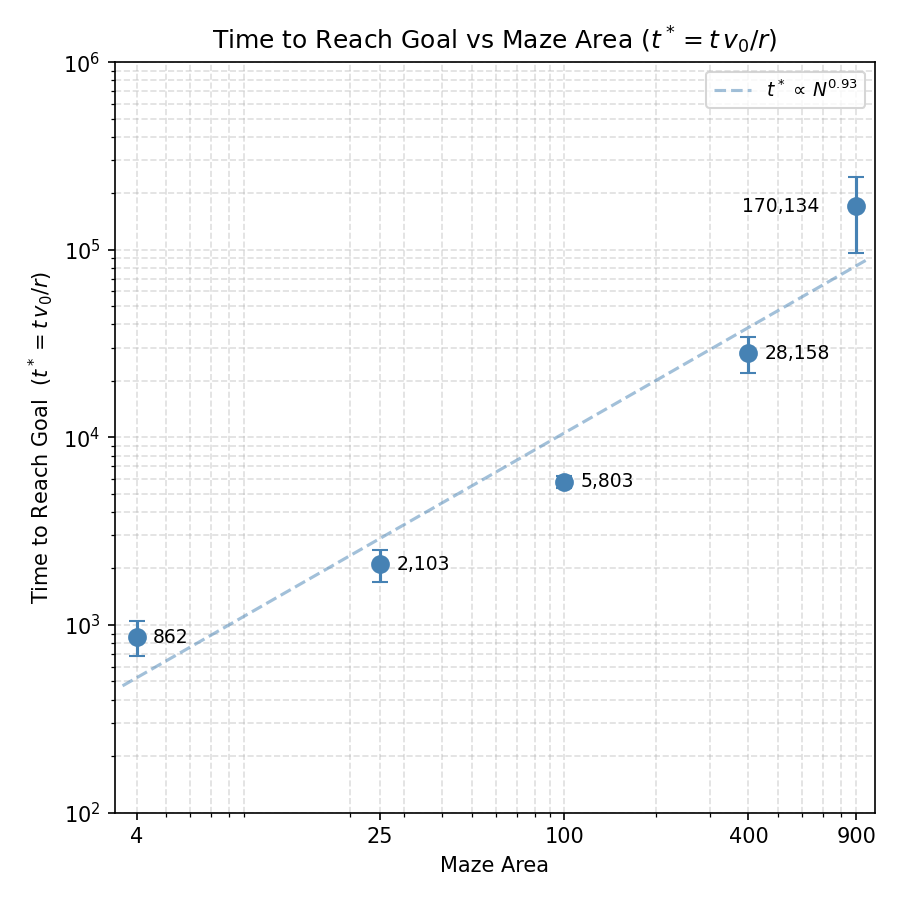
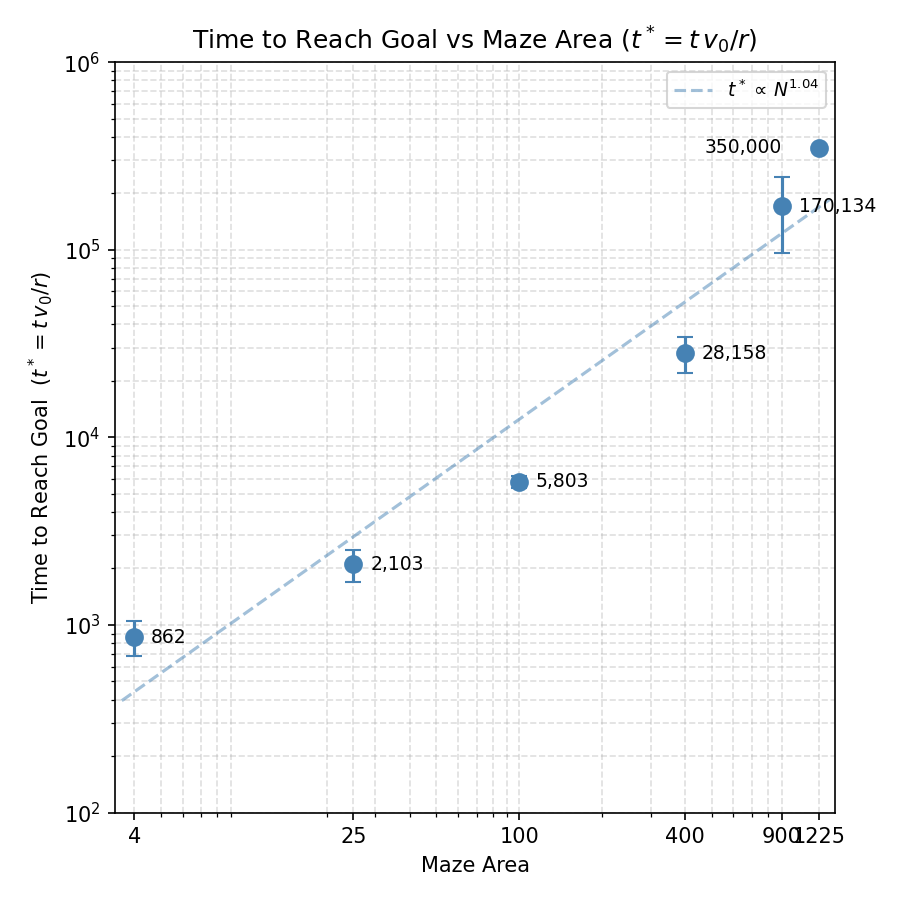
snellius extra runs

diff --git a/figures/fig6/f/plot_wallprune.py b/figures/fig6/f/plot_wallprune.py
@@ -1,15 +1,32 @@
+"""Wall-pruning figure (G=20).
+
+Usage (from anywhere):
+    python plot_wallprune.py [extra_results.txt ...]
+
+Data sources (merged, de-duplicated by the `output` name):
+  * wallprune_results_G20.csv   - original single-trial results (run 1)
+  * wallprune_results.txt       - raw file appended by the Slurm jobs
+                                  (copy it from Snellius next to this script,
+                                  or pass its path as an argument)
+Any `RESULT_LINE: key=value ...` line is parsed, so the raw Slurm results
+file can be used as-is. Lines without a `_runN` suffix count as run 1.
+"""
+import csv
+import os
+import re
+import sys
+
 import matplotlib.pyplot as plt
 import matplotlib.ticker as ticker
 import numpy as np
-import csv
-import os
 
 # ── Physical constants ────────────────────────────────────────────────────────
 DT = 0.01
 V0 = 5.0
 R  = 1.0
-BOX_SIZE = 1200.0   # 20×20 maze: 60 * G sim-units
-CELL_SIZE = BOX_SIZE / 20
+G  = 20
+BOX_SIZE = 60.0 * G   # 20×20 maze: 60 * G sim-units
+CELL_SIZE = BOX_SIZE / G
 PAYLOAD_START = np.array([CELL_SIZE / 2, CELL_SIZE / 2])
 GOAL          = np.array([BOX_SIZE - CELL_SIZE / 2, BOX_SIZE - CELL_SIZE / 2])
 STRAIGHT_DIST = np.linalg.norm(GOAL - PAYLOAD_START)  # 1140√2 ≈ 1612
@@ -17,38 +34,64 @@ T_STAR_STRAIGHT = STRAIGHT_DIST / R  # straight-line crossing time in t* units
 
 # ── Load data ─────────────────────────────────────────────────────────────────
 _HERE = os.path.dirname(os.path.abspath(__file__))
-DATA_FILE = os.path.join(_HERE, 'wallprune_results_G20.csv')
+CSV_FILE = os.path.join(_HERE, 'wallprune_results_G20.csv')
+RAW_FILES = [os.path.join(_HERE, 'wallprune_results.txt')] + sys.argv[1:]
 
-walls_remaining = []
-prune_steps = []
-final_steps = []
+records = {}  # output name -> (prune_step, final_step)
 
-with open(DATA_FILE, newline='') as f:
-    reader = csv.DictReader(f)
-    for row in reader:
-        if row['goal_reached'] == 'True':
-            walls_remaining.append(int(row['walls_remaining']))
-            prune_steps.append(int(row['prune_step']))
-            final_steps.append(int(row['final_step']))
 
-M = 361  # total interior walls for G=20
-prune_steps = np.array(prune_steps)
-t_star = np.array(final_steps, dtype=float) * DT * V0 / R
+def add(output, prune_step, final_step, goal_reached):
+    if goal_reached:
+        records[output] = (int(prune_step), int(final_step))
 
-# Sort by prune_step ascending (full maze → open)
-order = np.argsort(prune_steps)
-px = prune_steps[order]
-ty = t_star[order]
+
+if os.path.exists(CSV_FILE):
+    with open(CSV_FILE, newline='') as f:
+        for row in csv.DictReader(f):
+            add(row['output'], row['prune_step'], row['final_step'],
+                row['goal_reached'] == 'True')
+
+for path in RAW_FILES:
+    if not os.path.exists(path):
+        continue
+    with open(path) as f:
+        for line in f:
+            if not line.startswith('RESULT_LINE:'):
+                continue
+            kv = dict(re.findall(r'(\w+)=(\S+)', line))
+            add(kv['output'], kv['prune_step'], kv['final_step'],
+                kv['goal_reached'] == 'True')
+
+if not records:
+    sys.exit("No results found - put wallprune_results.txt next to this script "
+             "or pass its path as an argument.")
+
+steps = np.array([v[0] for v in records.values()])
+t_all = np.array([v[1] for v in records.values()], dtype=float) * DT * V0 / R
+
+unique_steps = np.unique(steps)
+means = np.array([t_all[steps == s].mean() for s in unique_steps])
+stds  = np.array([t_all[steps == s].std(ddof=1) if (steps == s).sum() > 1 else 0.0
+                  for s in unique_steps])
+counts = np.array([(steps == s).sum() for s in unique_steps])
+
+print("prune_step  n   mean t*   std")
+for s, n, m, sd in zip(unique_steps, counts, means, stds):
+    print(f"{s:>10}  {n}  {m:>9.0f}  {sd:>8.0f}")
 
 COLOR = '#7B68EE'
 
 # ── Plot ──────────────────────────────────────────────────────────────────────
 fig, ax = plt.subplots(figsize=(6, 6))
 
-px_plot = px + 1  # shift so 0 → 1 (log-safe); tick labels show original values
-ax.scatter(px_plot, ty, color=COLOR, s=64, zorder=3)
+px_all  = steps + 1           # shift so 0 → 1 (log-safe); tick labels show original values
+px_mean = unique_steps + 1
 
-for x, y in zip(px_plot, ty):
+ax.scatter(px_all, t_all, color=COLOR, s=18, alpha=0.35, zorder=2, label='individual trials')
+ax.errorbar(px_mean, means, yerr=stds, fmt='o', color=COLOR, markersize=8,
+            capsize=4, zorder=3, label='mean ± std')
+
+for x, y in zip(px_mean, means):
     ax.annotate(f'{y:,.0f}', (x, y), textcoords='offset points',
                 xytext=(6, 4), va='bottom', fontsize=8)
 
@@ -58,16 +101,18 @@ ax.legend(fontsize=9)
 
 ax.set_yscale('log')
 ax.set_xscale('log')
-ax.set_xlim(0.85, (px.max() + 1) * 1.5)
+ax.set_xlim(0.85, (unique_steps.max() + 1) * 1.5)
 ax.set_ylim(1000, 100000)
-ax.set_xticks(px_plot)
-ax.set_xticklabels([str(v) for v in px], rotation=45, ha='right')
+ax.set_xticks(px_mean)
+ax.set_xticklabels([str(v) for v in unique_steps], rotation=45, ha='right')
 ax.xaxis.set_minor_formatter(ticker.NullFormatter())
 
 ax.set_xlabel('Interior Walls Pruned (cumulative)')
 ax.set_ylabel(r'Time to Reach Goal  ($t^* = t\, v_0 / r$)')
+n_min, n_max = counts.min(), counts.max()
+trials = f'{n_max}' if n_min == n_max else f'{n_min}-{n_max}'
 ax.set_title('Navigation Time vs Wall Density\n'
-             r'($t^* = t\,v_0/r$,  20×20 maze, 1 trial each)')
+             rf'($t^* = t\,v_0/r$,  20×20 maze, {trials} trials per condition)')
 
 ax.yaxis.set_minor_formatter(ticker.NullFormatter())
 ax.grid(True, which='both', linestyle='--', alpha=0.4)
@@ -75,5 +120,5 @@ plt.tight_layout()
 
 outfile = os.path.join(_HERE, 'wallprune_G20.png')
 plt.savefig(outfile, dpi=150)
-plt.show()
 print(f"Saved {outfile}")
+plt.show()

diff --git a/figures/fig6/d/plot_maze_scaling.py b/figures/fig6/d/plot_maze_scaling.py
@@ -16,7 +16,34 @@ raw_data = {
     900: [2196953, 2222580, 3315073, 3452369, 5826395], # 2645760
     # 1600: [],
 }
-data = {s: [v * DT * V0 / R for v in vals] for s, vals in raw_data.items()}
+
+# ── New runs from Snellius ────────────────────────────────────────────────────
+# Copy maze_results.txt (written by snellius_extra_runs.sh) next to this script,
+# or pass its path(s) as arguments. Lines look like:
+#   MAZE_RESULT: G=35 run=1 final_step=1234567 output=maze_G35_run1
+# Keys are maze AREA (G^2). Runs are de-duplicated by output name, and a run
+# that did not reach the goal (final_step == N_STEPS) is dropped.
+import os, re, sys
+N_STEPS = 20000000
+_HERE = os.path.dirname(os.path.abspath(__file__))
+_new = {}
+for _path in [os.path.join(_HERE, 'maze_results.txt')] + sys.argv[1:]:
+    if not os.path.exists(_path):
+        continue
+    with open(_path) as _f:
+        for _line in _f:
+            if not _line.startswith('MAZE_RESULT:'):
+                continue
+            kv = dict(re.findall(r'(\w+)=(\S+)', _line))
+            if kv['final_step'] == 'NA' or int(kv['final_step']) >= N_STEPS:
+                print(f"Skipping unfinished run: {_line.strip()}")
+                continue
+            _new[kv['output']] = (int(kv['G']) ** 2, int(kv['final_step']))
+for _area, _steps in _new.values():
+    raw_data.setdefault(_area, []).append(_steps)
+print({a: len(v) for a, v in sorted(raw_data.items())}, "trials per maze area")
+
+data ={s: [v * DT * V0 / R for v in vals] for s, vals in raw_data.items()}
 
 sizes = np.array(sorted(data.keys()))
 means = np.array([np.mean(data[s]) for s in sizes])
@@ -51,5 +78,5 @@ ax.legend(fontsize=9)
 ax.grid(True, which='both', linestyle='--', alpha=0.4)
 ax.set_xlim(sizes[0] * 0.85, sizes[-1] * 1.15)
 plt.tight_layout()
-plt.savefig('maze_scaling_plot.png', dpi=150)
+plt.savefig(os.path.join(_HERE, 'maze_scaling_plot.png'), dpi=150)
 plt.show()
